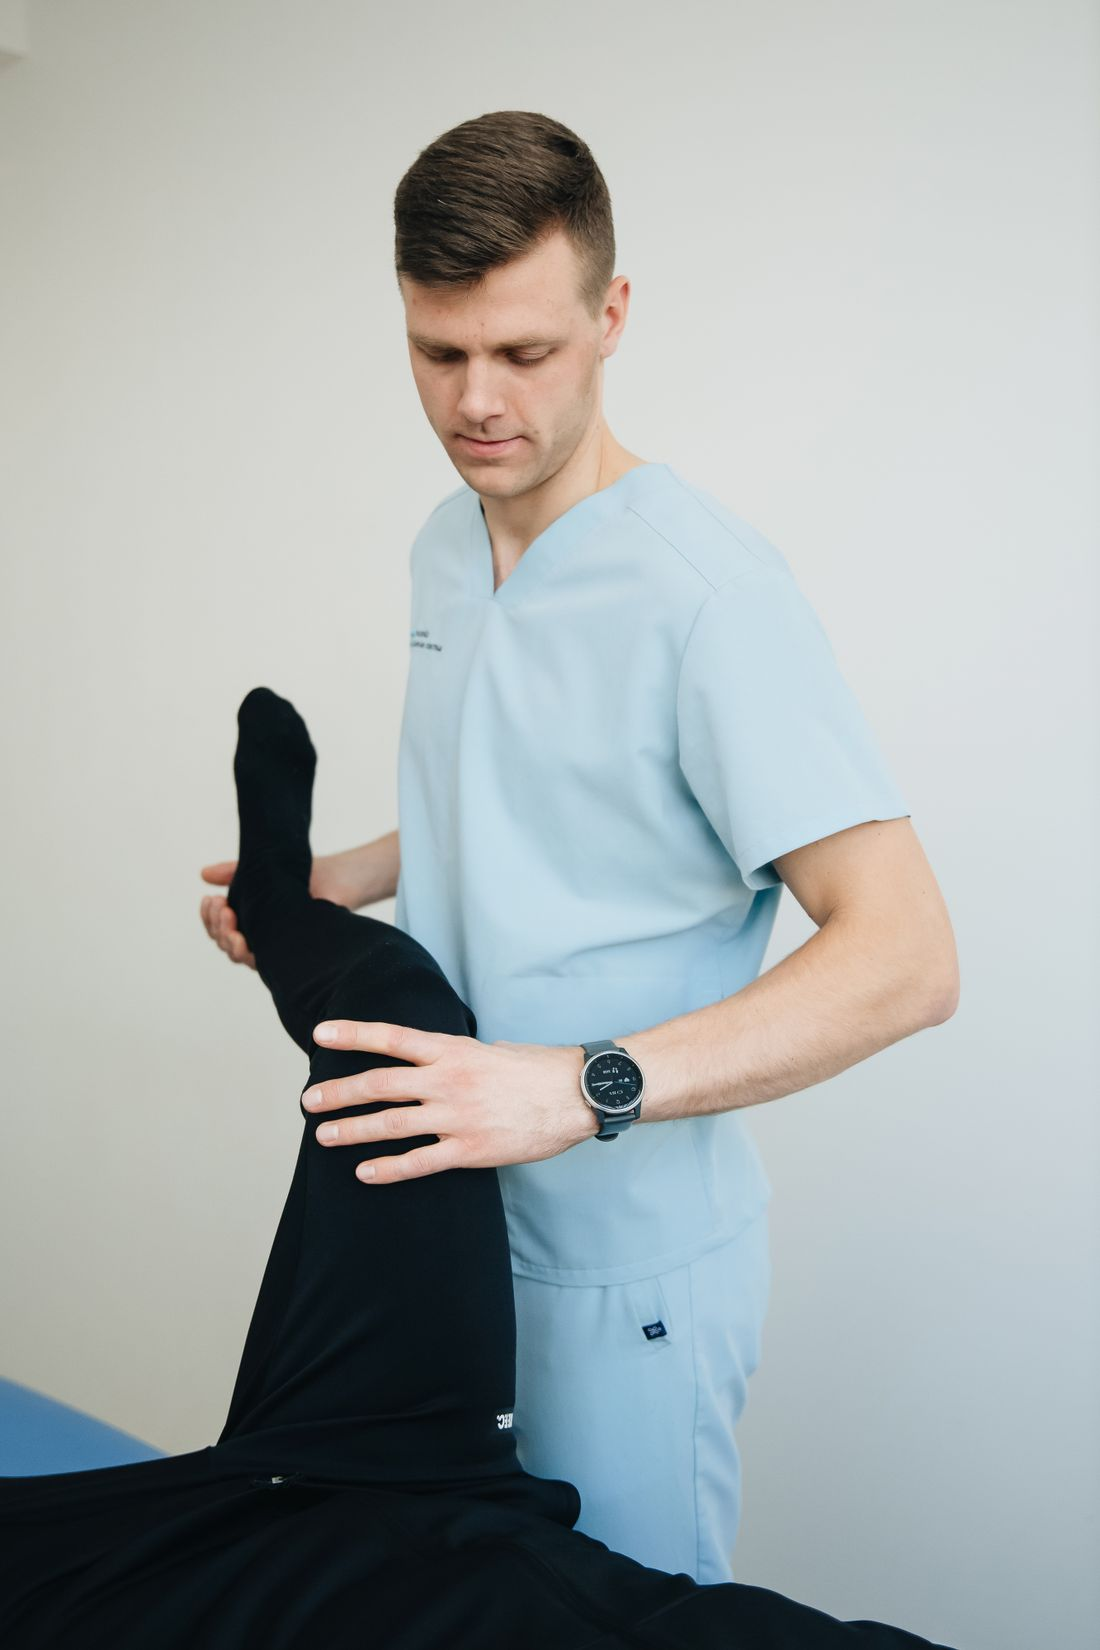
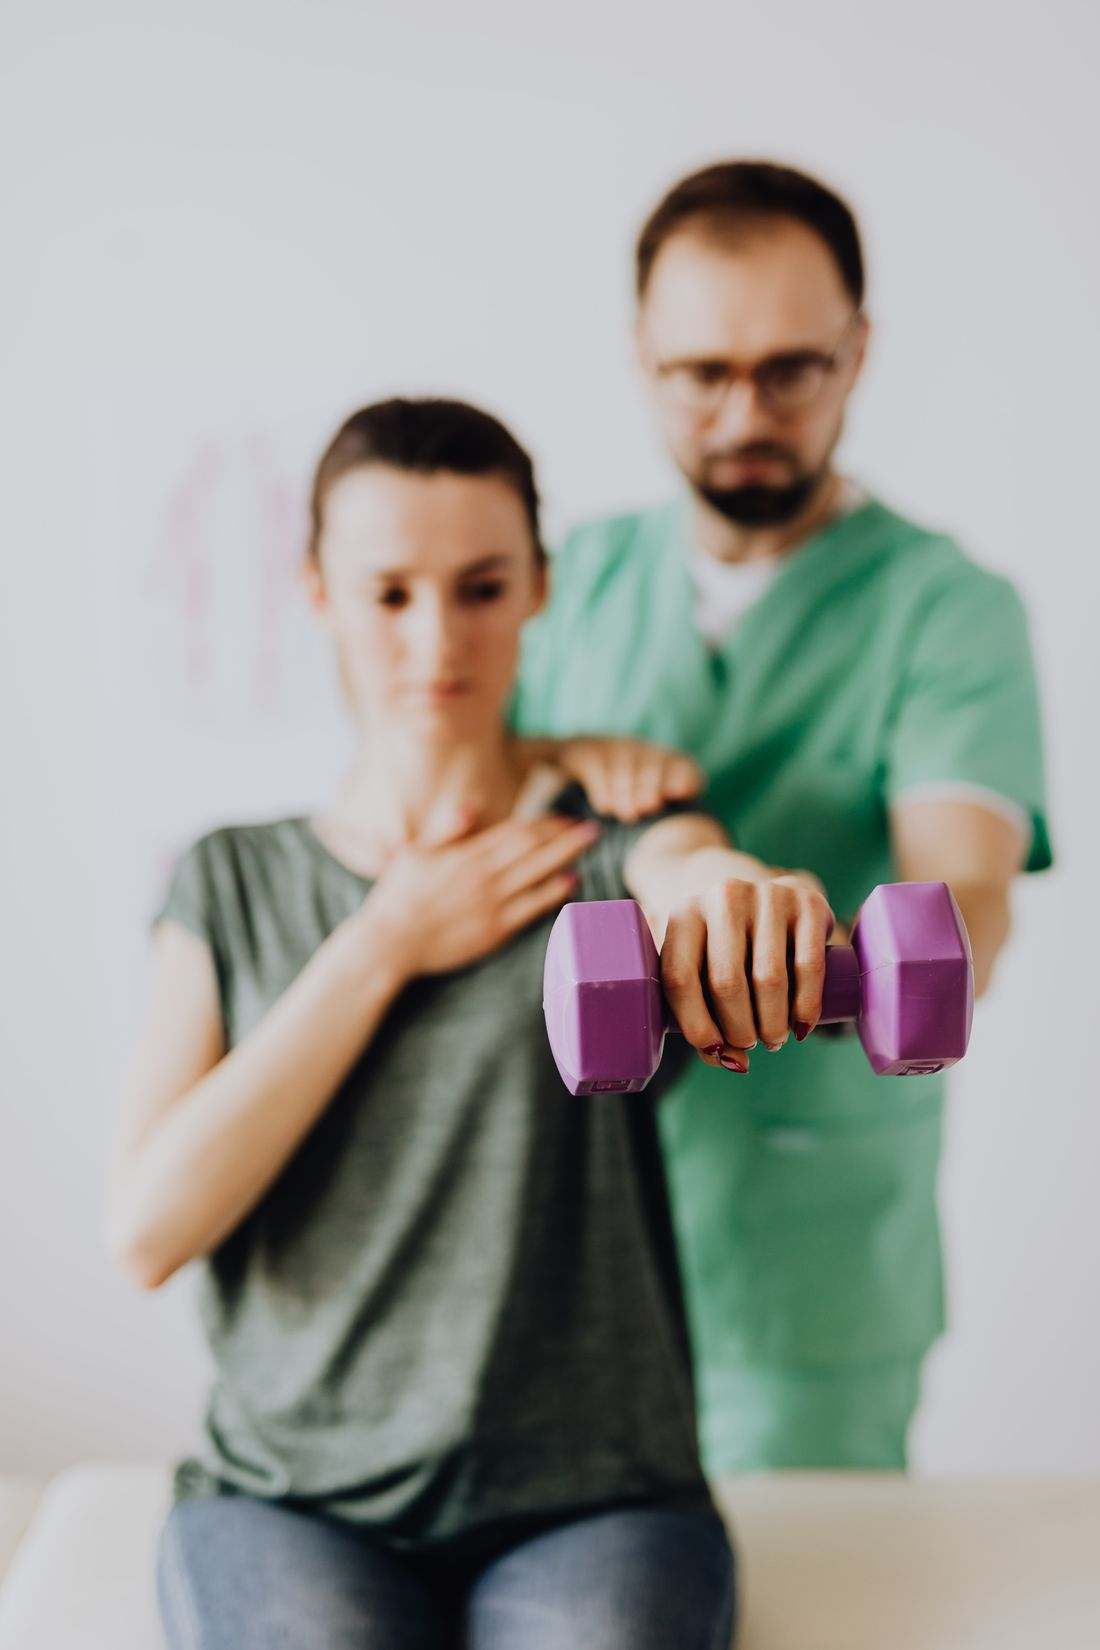
Post-surgical photo + replace two care-page images that showed another clinic's branding
- Post-surgical page: added hero motif + an image+copy lead ("Rebuilding the joint
  you had repaired") with a clean knee-rehab photo.
- Caught and fixed a branding issue: the auto-injury and post-surgical images first
  chosen (Pexels 20860588 / 20860595) were from a shoot where the therapist's scrubs
  carry another clinic's logo/name. Replaced both with clean, unbranded licensed
  photos (Pexels 4506073 dumbbell-assisted exercise -> auto-injury; Pexels 30483049
  knee electrotherapy -> post-surgical), verified by eye for no branding and no
  identifiable patient face. Filenames unchanged; CREDITS.md updated.

All illustrative only; Pexels License (free commercial, no attribution). Parses;
images load; no overflow at 390/1280.

Claude-Session: https://claude.ai/code/session_01QAs1AN2SwBZU1eWvqHHEiq

diff --git a/services/post-surgical-rehabilitation.html b/services/post-surgical-rehabilitation.html
@@ -270,7 +270,7 @@ gtag('config', 'G-D3KG2Y4Z9V');
 </div></header>
 <main id="main">
 
-<div class="phero"><div class="wrap">
+<div class="phero"><svg class="heromotif" viewBox="0 0 200 200" fill="none" aria-hidden="true"><circle cx="150" cy="60" r="30" stroke="#1948E3" stroke-width="2"/><circle cx="150" cy="60" r="55" stroke="#1948E3" stroke-width="1.6" opacity=".6"/><circle cx="150" cy="60" r="82" stroke="#1948E3" stroke-width="1.3" opacity=".35"/><circle cx="150" cy="60" r="6" fill="#F7B32B"/><path d="M20 150 C70 140 110 110 180 96" stroke="#0C2457" stroke-width="2.4" stroke-linecap="round" opacity=".5"/></svg><div class="wrap">
 <div class="eyebrow">Services · Core Physical Therapy</div>
 <h1>Post-Surgical Rehabilitation in Sterling Heights, MI</h1>
 <p class="lead">Recovery after orthopedic surgery, planned around your procedure, your surgeon's instructions, and your own assessed starting point — and measured as you go. Opening February 2027 on Mound Rd.</p>
@@ -280,6 +280,10 @@ gtag('config', 'G-D3KG2Y4Z9V');
 <section class="wrap" style="padding-top:20px">
 <div class="answer"><b>The short version:</b> surgery repairs the structure; rehabilitation rebuilds the motion, strength, and confidence you use it with. At Proof, your plan follows your surgeon's protocol and precautions, starts from a measured baseline, and is adjusted as you progress. There is no one-size recovery — the right pace depends on your procedure and your healing. <b>Proof opens February 2027</b>; you can plan and prepare with us now, but an inquiry is not yet a booked appointment.</div>
 
+<div class="splitgrid" style="margin:22px 0 8px">
+<figure class="sg-media" style="margin:0"><img src="../assets/img/care-knee.jpg" alt="A physical therapist assisting a patient with hands-on knee rehabilitation" loading="lazy" style="width:100%;aspect-ratio:3/2;object-fit:cover;border-radius:18px;display:block"></figure>
+<div><h2 style="margin-top:0">Rebuilding the joint you had repaired</h2><p>After orthopedic surgery, recovery is its own project — restoring motion, rebuilding strength, and returning to the tasks you need, at a pace set by your surgeon’s protocol and your own healing. Every step is measured, so progress is something you can see rather than guess at.</p></div>
+</div>
 <h2>Who this is for</h2>
 <p>Within the services Proof plans to offer at opening, post-surgical rehabilitation is for people recovering from common orthopedic procedures:</p>
 <ul class="checks"><li>Knee and hip replacement</li><li>ACL and other ligament reconstruction</li><li>Rotator cuff and labral (shoulder) repair</li><li>Spinal surgery — fusion, discectomy, laminectomy</li><li>Fracture fixation and tendon repairs</li></ul>

diff --git a/assets/img/CREDITS.md b/assets/img/CREDITS.md
@@ -5,7 +5,8 @@
 | care-hands-on.jpg | Pexels photo 4506074 (https://www.pexels.com/photo/crop-orthopedist-examining-arm-of-faceless-female-patient-in-clinic-4506074/) | Pexels License — free for commercial use, no attribution required | 2026-10-30 | Homepage "Care that's hands-on" illustrative slot |
 | care-shoulder.jpg | Pexels 4506169 (https://www.pexels.com/photo/crop-unrecognizable-orthopedist-stretching-shoulder-of-female-patient-4506169/) | Pexels License | 2026-10-30 | Orthopedic PT page |
 | care-band.jpg | Pexels 30483061 (https://www.pexels.com/photo/physical-therapy-session-with-resistance-band-30483061/) | Pexels License | 2026-10-30 | FCE page |
-| care-leg.jpg | Pexels 20860588 (https://www.pexels.com/photo/physiotherapist-exercising-patient-leg-20860588/) | Pexels License | 2026-10-30 | Auto-injury page |
+| care-leg.jpg | Pexels 4506073 (https://www.pexels.com/photo/chiropractor-assisting-female-patient-with-dumbbell-in-doctor-office-4506073/) | Pexels License | 2026-10-30 | Auto-injury page |
+| care-knee.jpg | Pexels 30483049 (https://www.pexels.com/photo/therapeutic-knee-physiotherapy-session-30483049/) | Pexels License | 2026-10-31 | Post-surgical rehab page |
 
 Notes: illustrative stock only — not represented as Proof's clinic, staff, or patients.
 Facility photos (clinic exterior/interior/entrance) and clinician headshots must be real Proof photos, not stock.
